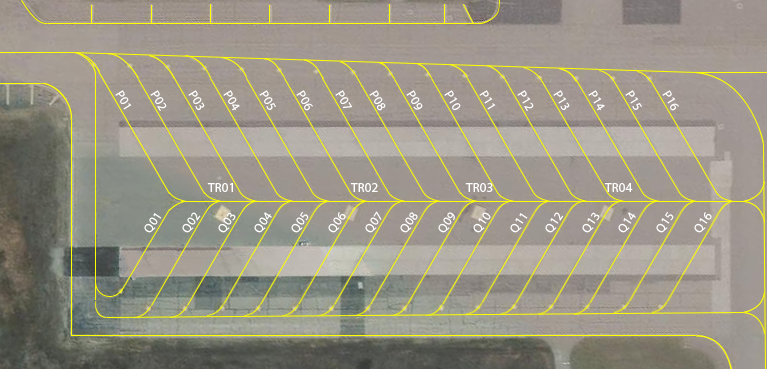
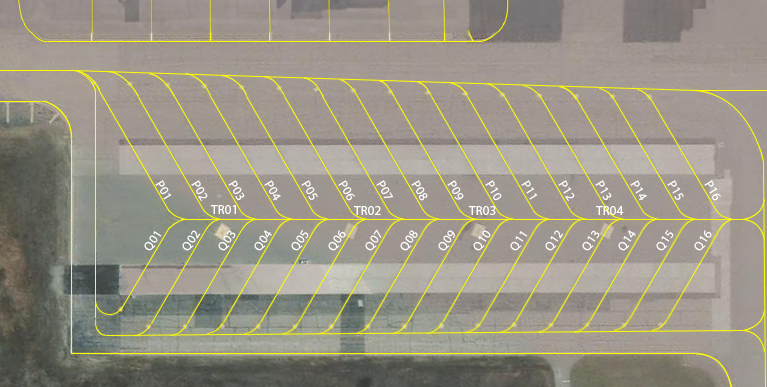
pqrs complete

diff --git a/parking/coordinates.js b/parking/coordinates.js
@@ -37,73 +37,74 @@ export function getCoordinatesForLabel(label, type) {
         case 'O4': return { x: 653, y: 213, rotation: 0 };
         case 'O5': return { x: 825, y: 213, rotation: 0 };
         // P
-        case 'P1': return { x: 114, y: 117, rotation: 150 * Math.PI / 180 };
-        case 'P2': return { x: 149, y: 117, rotation: 150 * Math.PI / 180 };
-        case 'P3': return { x: 186 + 1, y: 117, rotation: 150 * Math.PI / 180 };
-        case 'P4': return { x: 221 + 1, y: 117, rotation: 150 * Math.PI / 180 };
-        case 'P5': return { x: 257 + 2, y: 117, rotation: 150 * Math.PI / 180 };
-        case 'P6': return { x: 293 + 2, y: 117, rotation: 150 * Math.PI / 180 };
-        case 'P7': return { x: 330 + 3, y: 117, rotation: 150 * Math.PI / 180 };
-        case 'P8': return { x: 365 + 3, y: 117, rotation: 150 * Math.PI / 180 };
-        case 'P9': return { x: 402 + 4, y: 117, rotation: 150 * Math.PI / 180 };
-        case 'P10': return { x: 438 + 4, y: 117, rotation: 150 * Math.PI / 180 };
-        case 'P11': return { x: 474 + 5, y: 117, rotation: 150 * Math.PI / 180 };
-        case 'P12': return { x: 510 + 5, y: 117, rotation: 150 * Math.PI / 180 };
-        case 'P13': return { x: 546 + 6, y: 117, rotation: 150 * Math.PI / 180 };
-        case 'P14': return { x: 581 + 6, y: 117, rotation: 150 * Math.PI / 180 };
-        case 'P15': return { x: 618 + 7, y: 117, rotation: 150 * Math.PI / 180 };
-        case 'P16': return { x: 653 + 7, y: 117, rotation: 150 * Math.PI / 180 };
+        case 'P1': return { x: 114, y: 136, rotation: 150 * Math.PI / 180 };
+        case 'P2': return { x: 149, y: 136, rotation: 150 * Math.PI / 180 };
+        case 'P3': return { x: 186 + 1, y: 136, rotation: 150 * Math.PI / 180 };
+        case 'P4': return { x: 221 + 1, y: 136, rotation: 150 * Math.PI / 180 };
+        case 'P5': return { x: 257 + 2, y: 136, rotation: 150 * Math.PI / 180 };
+        case 'P6': return { x: 293 + 2, y: 136, rotation: 150 * Math.PI / 180 };
+        case 'P7': return { x: 330 + 3, y: 136, rotation: 150 * Math.PI / 180 };
+        case 'P8': return { x: 365 + 3, y: 136, rotation: 150 * Math.PI / 180 };
+        case 'P9': return { x: 402 + 4, y: 136, rotation: 150 * Math.PI / 180 };
+        case 'P10': return { x: 438 + 4, y: 136, rotation: 150 * Math.PI / 180 };
+        case 'P11': return { x: 474 + 5, y: 136, rotation: 150 * Math.PI / 180 };
+        case 'P12': return { x: 510 + 5, y: 136, rotation: 150 * Math.PI / 180 };
+        case 'P13': return { x: 546 + 6, y: 136, rotation: 150 * Math.PI / 180 };
+        case 'P14': return { x: 581 + 6, y: 136, rotation: 150 * Math.PI / 180 };
+        case 'P15': return { x: 618 + 7, y: 136, rotation: 150 * Math.PI / 180 };
+        case 'P16': return { x: 653 + 7, y: 136, rotation: 150 * Math.PI / 180 };
         // Q
-        case 'Q1': return { x: 112, y: 233, rotation: 30 * Math.PI / 180 };
-        case 'Q2': return { x: 149, y: 233, rotation: 30 * Math.PI / 180 };
-        case 'Q3': return { x: 186, y: 233, rotation: 30 * Math.PI / 180 };
-        case 'Q4': return { x: 222, y: 233, rotation: 30 * Math.PI / 180 };
-        case 'Q5': return { x: 259, y: 233, rotation: 30 * Math.PI / 180 };
-        case 'Q6': return { x: 295, y: 233, rotation: 30 * Math.PI / 180 };
-        case 'Q7': return { x: 333, y: 233, rotation: 30 * Math.PI / 180 };
-        case 'Q8': return { x: 368, y: 233, rotation: 30 * Math.PI / 180 };
-        case 'Q9': return { x: 406, y: 233, rotation: 30 * Math.PI / 180 };
-        case 'Q10': return { x: 441, y: 233, rotation: 30 * Math.PI / 180 };
-        case 'Q11': return { x: 479, y: 233, rotation: 30 * Math.PI / 180 };
-        case 'Q12': return { x: 513, y: 233, rotation: 30 * Math.PI / 180 };
-        case 'Q13': return { x: 552, y: 233, rotation: 30 * Math.PI / 180 };
-        case 'Q14': return { x: 588, y: 233, rotation: 30 * Math.PI / 180 };
-        case 'Q15': return { x: 626, y: 233, rotation: 30 * Math.PI / 180 };
-        case 'Q16': return { x: 663, y: 233, rotation: 30 * Math.PI / 180 };
+        case 'Q1': return { x: 112, y: 252, rotation: 30 * Math.PI / 180 };
+        case 'Q2': return { x: 149, y: 252, rotation: 30 * Math.PI / 180 };
+        case 'Q3': return { x: 186, y: 252, rotation: 30 * Math.PI / 180 };
+        case 'Q4': return { x: 222, y: 252, rotation: 30 * Math.PI / 180 };
+        case 'Q5': return { x: 259, y: 252, rotation: 30 * Math.PI / 180 };
+        case 'Q6': return { x: 295, y: 252, rotation: 30 * Math.PI / 180 };
+        case 'Q7': return { x: 333, y: 252, rotation: 30 * Math.PI / 180 };
+        case 'Q8': return { x: 368, y: 252, rotation: 30 * Math.PI / 180 };
+        case 'Q9': return { x: 406, y: 252, rotation: 30 * Math.PI / 180 };
+        case 'Q10': return { x: 441, y: 252, rotation: 30 * Math.PI / 180 };
+        case 'Q11': return { x: 479, y: 252, rotation: 30 * Math.PI / 180 };
+        case 'Q12': return { x: 513, y: 252, rotation: 30 * Math.PI / 180 };
+        case 'Q13': return { x: 552, y: 252, rotation: 30 * Math.PI / 180 };
+        case 'Q14': return { x: 588, y: 252, rotation: 30 * Math.PI / 180 };
+        case 'Q15': return { x: 626, y: 252, rotation: 30 * Math.PI / 180 };
+        case 'Q16': return { x: 663, y: 252, rotation: 30 * Math.PI / 180 };
         // R
-        case 'R1': return { x: 42, y: 98, rotation: 150 * Math.PI / 180 };
-        case 'R2': return { x: 79, y: 98, rotation: 150 * Math.PI / 180 };
-        case 'R3': return { x: 115, y: 98, rotation: 150 * Math.PI / 180 };
-        case 'R4': return { x: 153, y: 98, rotation: 150 * Math.PI / 180 };
-        case 'R5': return { x: 189, y: 98, rotation: 150 * Math.PI / 180 };
-        case 'R6': return { x: 226, y: 98, rotation: 150 * Math.PI / 180 };
-        case 'R7': return { x: 262, y: 98, rotation: 150 * Math.PI / 180 };
-        case 'R8': return { x: 300, y: 98, rotation: 150 * Math.PI / 180 };
-        case 'R9': return { x: 337, y: 98, rotation: 150 * Math.PI / 180 };
-        case 'R10': return { x: 374, y: 98, rotation: 150 * Math.PI / 180 };
-        case 'R11': return { x: 410, y: 98, rotation: 150 * Math.PI / 180 };
-        case 'R12': return { x: 446, y: 98, rotation: 150 * Math.PI / 180 };
-        case 'R13': return { x: 483, y: 98, rotation: 150 * Math.PI / 180 };
-        case 'R14': return { x: 519, y: 98, rotation: 150 * Math.PI / 180 };
-        case 'R15': return { x: 557, y: 98, rotation: 150 * Math.PI / 180 };
-        case 'R16': return { x: 594, y: 98, rotation: 150 * Math.PI / 180 };
+        case 'R1': return { x: 50, y: 142, rotation: 150 * Math.PI / 180 };
+        case 'R2': return { x: 87, y: 142, rotation: 150 * Math.PI / 180 }; // R2
+        case 'R3': return { x: 123, y: 142, rotation: 150 * Math.PI / 180 }; // R3
+        case 'R4': return { x: 161, y: 142, rotation: 150 * Math.PI / 180 }; // R4
+        case 'R5': return { x: 197, y: 142, rotation: 150 * Math.PI / 180 }; // R5
+        case 'R6': return { x: 234, y: 142, rotation: 150 * Math.PI / 180 }; // R6
+        case 'R7': return { x: 270, y: 142, rotation: 150 * Math.PI / 180 }; // R7
+        case 'R8': return { x: 308, y: 142, rotation: 150 * Math.PI / 180 }; // R8
+        case 'R9': return { x: 345, y: 142, rotation: 150 * Math.PI / 180 }; // R9
+        case 'R10': return { x: 382, y: 142, rotation: 150 * Math.PI / 180 }; // R10
+        case 'R11': return { x: 418, y: 142, rotation: 150 * Math.PI / 180 }; // R11
+        case 'R12': return { x: 453, y: 142, rotation: 150 * Math.PI / 180 }; // R12
+        case 'R13': return { x: 489, y: 142, rotation: 150 * Math.PI / 180 }; // R13
+        case 'R14': return { x: 525, y: 142, rotation: 150 * Math.PI / 180 }; // R14
+        case 'R15': return { x: 563, y: 142, rotation: 150 * Math.PI / 180 }; // R15
+        case 'R16': return { x: 601, y: 142, rotation: 150 * Math.PI / 180 }; // R16
         // S
-        case 'S1': return { x: 43, y: 214, rotation: 30 * Math.PI / 180 };
-        case 'S2': return { x: 80, y: 214, rotation: 30 * Math.PI / 180 };
-        case 'S3': return { x: 116, y: 214, rotation: 30 * Math.PI / 180 };
-        case 'S4': return { x: 151, y: 214, rotation: 30 * Math.PI / 180 };
-        case 'S5': return { x: 190 - 1, y: 214, rotation: 30 * Math.PI / 180 };
-        case 'S6': return { x: 228 - 1, y: 214, rotation: 30 * Math.PI / 180 };
-        case 'S7': return { x: 265 - 1, y: 214, rotation: 30 * Math.PI / 180 };
-        case 'S8': return { x: 301 - 1, y: 214, rotation: 30 * Math.PI / 180 };
-        case 'S9': return { x: 339 - 2, y: 214, rotation: 30 * Math.PI / 180 };
-        case 'S10': return { x: 376 - 2, y: 214, rotation: 30 * Math.PI / 180 };
-        case 'S11': return { x: 412 - 2, y: 214, rotation: 30 * Math.PI / 180 };
-        case 'S12': return { x: 448 - 2, y: 214, rotation: 30 * Math.PI / 180 };
-        case 'S13': return { x: 484 - 3, y: 214, rotation: 30 * Math.PI / 180 };
-        case 'S14': return { x: 521 - 3, y: 214, rotation: 30 * Math.PI / 180 };
-        case 'S15': return { x: 558 - 3, y: 214, rotation: 30 * Math.PI / 180 };
-        case 'S16': return { x: 594 - 3, y: 214, rotation: 30 * Math.PI / 180 };
+        case 'S1': return { x: 51, y: 258, rotation: 30 * Math.PI / 180 }; // S1
+        case 'S2': return { x: 88, y: 258, rotation: 30 * Math.PI / 180 }; // S2
+        case 'S3': return { x: 124, y: 258, rotation: 30 * Math.PI / 180 }; // S3
+        case 'S4': return { x: 159, y: 258, rotation: 30 * Math.PI / 180 }; // S4
+        case 'S5': return { x: 197, y: 258, rotation: 30 * Math.PI / 180 }; // S5
+        case 'S6': return { x: 235, y: 258, rotation: 30 * Math.PI / 180 }; // S6
+        case 'S7': return { x: 272, y: 258, rotation: 30 * Math.PI / 180 }; // S7
+        case 'S8': return { x: 308, y: 258, rotation: 30 * Math.PI / 180 }; // S8
+        case 'S9': return { x: 346, y: 258, rotation: 30 * Math.PI / 180 }; // S9
+        case 'S10': return { x: 383, y: 258, rotation: 30 * Math.PI / 180 }; // S10
+        case 'S11': return { x: 419, y: 258, rotation: 30 * Math.PI / 180 }; // S11
+        case 'S12': return { x: 454, y: 258, rotation: 30 * Math.PI / 180 }; // S12
+        case 'S13': return { x: 492, y: 258, rotation: 30 * Math.PI / 180 }; // S13
+        case 'S14': return { x: 529, y: 258, rotation: 30 * Math.PI / 180 }; // S14
+        case 'S15': return { x: 563, y: 258, rotation: 30 * Math.PI / 180 }; // S15
+        case 'S16': return { x: 599, y: 258, rotation: 30 * Math.PI / 180 }; // S16
+
         default: return { x: 10, y: 10, rotation: 0 }; // Default coordinates
     }
 }
@@ -147,22 +148,74 @@ export function getCoordinatesForTag(label) {
         case 'O4': return { x: 673, y: 292, rotation: 30 * Math.PI / 180 };
         case 'O5': return { x: 845, y: 292, rotation: 30 * Math.PI / 180 };
         // P
-        case 'P1': return { x: 50, y: 85, rotation: 55 * Math.PI / 180 };
-        case 'P2': return { x: 85, y: 85, rotation: 55 * Math.PI / 180 };
-        case 'P3': return { x: 123, y: 85, rotation: 55 * Math.PI / 180 };
-        case 'P4': return { x: 158, y: 85, rotation: 55 * Math.PI / 180 };
-        case 'P5': return { x: 195, y: 85, rotation: 55 * Math.PI / 180 };
-        case 'P6': return { x: 231, y: 85, rotation: 55 * Math.PI / 180 };
-        case 'P7': return { x: 269, y: 85, rotation: 55 * Math.PI / 180 };
-        case 'P8': return { x: 304, y: 85, rotation: 55 * Math.PI / 180 };
-        case 'P9': return { x: 342, y: 85, rotation: 55 * Math.PI / 180 };
-        case 'P10': return { x: 378, y: 85, rotation: 55 * Math.PI / 180 };
-        case 'P11': return { x: 415, y: 85, rotation: 55 * Math.PI / 180 };
-        case 'P12': return { x: 451, y: 85, rotation: 55 * Math.PI / 180 };
-        case 'P13': return { x: 488, y: 85, rotation: 55 * Math.PI / 180 };
-        case 'P14': return { x: 523, y: 85, rotation: 55 * Math.PI / 180 };
-        case 'P15': return { x: 561, y: 85, rotation: 55 * Math.PI / 180 };
-        case 'P16': return { x: 596, y: 85, rotation: 55 * Math.PI / 180 };
+        case 'P1': return { x: 60, y: 102, rotation: 60 * Math.PI / 180 };
+        case 'P2': return { x: 95, y: 102, rotation: 60 * Math.PI / 180 };
+        case 'P3': return { x: 133, y: 102, rotation: 60 * Math.PI / 180 };
+        case 'P4': return { x: 168, y: 102, rotation: 60 * Math.PI / 180 };
+        case 'P5': return { x: 205, y: 102, rotation: 60 * Math.PI / 180 };
+        case 'P6': return { x: 241, y: 102, rotation: 60 * Math.PI / 180 };
+        case 'P7': return { x: 279, y: 102, rotation: 60 * Math.PI / 180 };
+        case 'P8': return { x: 314, y: 102, rotation: 60 * Math.PI / 180 };
+        case 'P9': return { x: 352, y: 102, rotation: 60 * Math.PI / 180 };
+        case 'P10': return { x: 388, y: 102, rotation: 60 * Math.PI / 180 };
+        case 'P11': return { x: 425, y: 102, rotation: 60 * Math.PI / 180 };
+        case 'P12': return { x: 461, y: 102, rotation: 60 * Math.PI / 180 };
+        case 'P13': return { x: 498, y: 102, rotation: 60 * Math.PI / 180 };
+        case 'P14': return { x: 533, y: 102, rotation: 60 * Math.PI / 180 };
+        case 'P15': return { x: 571, y: 102, rotation: 60 * Math.PI / 180 };
+        case 'P16': return { x: 606, y: 102, rotation: 60 * Math.PI / 180 };
+        //Q
+        case 'Q1': return { x: 58, y: 325, rotation: -60 * Math.PI / 180 };
+        case 'Q2': return { x: 95, y: 325, rotation: -60 * Math.PI / 180 }; // Q2
+        case 'Q3': return { x: 132, y: 325, rotation: -60 * Math.PI / 180 }; // Q3
+        case 'Q4': return { x: 168, y: 325, rotation: -60 * Math.PI / 180 }; // Q4
+        case 'Q5': return { x: 205, y: 325, rotation: -60 * Math.PI / 180 }; // Q5
+        case 'Q6': return { x: 241, y: 325, rotation: -60 * Math.PI / 180 }; // Q6
+        case 'Q7': return { x: 279, y: 325, rotation: -60 * Math.PI / 180 }; // Q7
+        case 'Q8': return { x: 314, y: 325, rotation: -60 * Math.PI / 180 }; // Q8
+        case 'Q9': return { x: 352, y: 325, rotation: -60 * Math.PI / 180 }; // Q9
+        case 'Q10': return { x: 387, y: 325, rotation: -60 * Math.PI / 180 }; // Q10
+        case 'Q11': return { x: 425, y: 325, rotation: -60 * Math.PI / 180 }; // Q11
+        case 'Q12': return { x: 459, y: 325, rotation: -60 * Math.PI / 180 }; // Q12
+        case 'Q13': return { x: 498, y: 325, rotation: -60 * Math.PI / 180 }; // Q13
+        case 'Q14': return { x: 534, y: 325, rotation: -60 * Math.PI / 180 }; // Q14
+        case 'Q15': return { x: 572, y: 325, rotation: -60 * Math.PI / 180 }; // Q15
+        case 'Q16': return { x: 609, y: 325, rotation: -60 * Math.PI / 180 }; // Q16
+        //R
+        case 'R1': return { x: -4, y: 107, rotation: 60 * Math.PI / 180 }; // R1
+        case 'R2': return { x: 33, y: 107, rotation: 60 * Math.PI / 180 }; // R2
+        case 'R3': return { x: 69, y: 107, rotation: 60 * Math.PI / 180 }; // R3
+        case 'R4': return { x: 107, y: 107, rotation: 60 * Math.PI / 180 }; // R4
+        case 'R5': return { x: 143, y: 107, rotation: 60 * Math.PI / 180 }; // R5
+        case 'R6': return { x: 180, y: 107, rotation: 60 * Math.PI / 180 }; // R6
+        case 'R7': return { x: 216, y: 107, rotation: 60 * Math.PI / 180 }; // R7
+        case 'R8': return { x: 254, y: 107, rotation: 60 * Math.PI / 180 }; // R8
+        case 'R9': return { x: 291, y: 107, rotation: 60 * Math.PI / 180 }; // R9
+        case 'R10': return { x: 328, y: 107, rotation: 60 * Math.PI / 180 }; // R10
+        case 'R11': return { x: 364, y: 107, rotation: 60 * Math.PI / 180 }; // R11
+        case 'R12': return { x: 398, y: 107, rotation: 60 * Math.PI / 180 }; // R12
+        case 'R13': return { x: 435, y: 107, rotation: 60 * Math.PI / 180 }; // R13
+        case 'R14': return { x: 471, y: 107, rotation: 60 * Math.PI / 180 }; // R14
+        case 'R15': return { x: 509, y: 107, rotation: 60 * Math.PI / 180 }; // R15
+        case 'R16': return { x: 546, y: 107, rotation: 60 * Math.PI / 180 }; // R16
+        //S
+        case 'S1': return { x: -3, y: 333, rotation: -60 * Math.PI / 180 }; // S1
+        case 'S2': return { x: 34, y: 333, rotation: -60 * Math.PI / 180 }; // S2
+        case 'S3': return { x: 70, y: 333, rotation: -60 * Math.PI / 180 }; // S3
+        case 'S4': return { x: 105, y: 333, rotation: -60 * Math.PI / 180 }; // S4
+        case 'S5': return { x: 143, y: 333, rotation: -60 * Math.PI / 180 }; // S5
+        case 'S6': return { x: 181, y: 333, rotation: -60 * Math.PI / 180 }; // S6
+        case 'S7': return { x: 218, y: 333, rotation: -60 * Math.PI / 180 }; // S7
+        case 'S8': return { x: 254, y: 333, rotation: -60 * Math.PI / 180 }; // S8
+        case 'S9': return { x: 292, y: 333, rotation: -60 * Math.PI / 180 }; // S9
+        case 'S10': return { x: 329, y: 333, rotation: -60 * Math.PI / 180 }; // S10
+        case 'S11': return { x: 365, y: 333, rotation: -60 * Math.PI / 180 }; // S11
+        case 'S12': return { x: 400, y: 333, rotation: -60 * Math.PI / 180 }; // S12
+        case 'S13': return { x: 438, y: 333, rotation: -60 * Math.PI / 180 }; // S13
+        case 'S14': return { x: 475, y: 333, rotation: -60 * Math.PI / 180 }; // S14
+        case 'S15': return { x: 509, y: 333, rotation: -60 * Math.PI / 180 }; // S15
+        case 'S16': return { x: 545, y: 333, rotation: -60 * Math.PI / 180 };
+
         default: return { x: 10, y: 10, rotation: 0 }; // Default coordinates for tag
     }
 }

diff --git a/parking/parking.css b/parking/parking.css
@@ -291,29 +291,28 @@ input.spotcheck:hover {
 #saveButton {
     display: flex;
     flex-direction: row;
-    font-family: roboto;
-    position: absolute;
-    right: 100px;
-    top: 75%;
-    transform: translateY(-50%);
+    font-family: Roboto, sans-serif;
     background: #98faad;
-    /* Light grey background, adjust as needed */
     border: none;
     padding: 10px;
     border-radius: 5px;
     cursor: pointer;
+    margin-top: 10px;
+    /* Space between the button and the canvas */
+    align-self: center;
+    /* Center the button within the parent container */
 }
 
 #saveButton img {
     width: 50px;
-    /* Adjust size as needed */
     height: auto;
 }
 
 #saveButton h1 {
     margin-left: 10px;
-
 }
+
+
 
 .color-selection {
     display: flex;

diff --git a/parking/parking.html b/parking/parking.html
@@ -97,11 +97,11 @@
         <div class="output">
             <canvas id="apronimg"></canvas>
             <div id="aircraftDetailTiles"></div>
+            <button id="saveButton" style="display: none;">
+                <img src="../resources/save-icon.png" alt="Save Image">
+                <h1>Save Image</h1>
+            </button>
         </div>
-        <button id="saveButton" style="display: none;">
-            <img src="../resources/save-icon.png" alt="Save Image">
-            <h1>Save Image</h1>
-        </button>
     </div>
     <script src="CanvasManager.js" type="module"></script>
     <script src="UIManager.js" type="module"></script>
